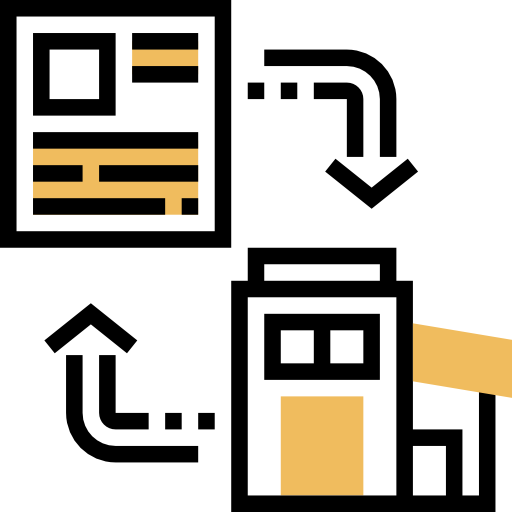
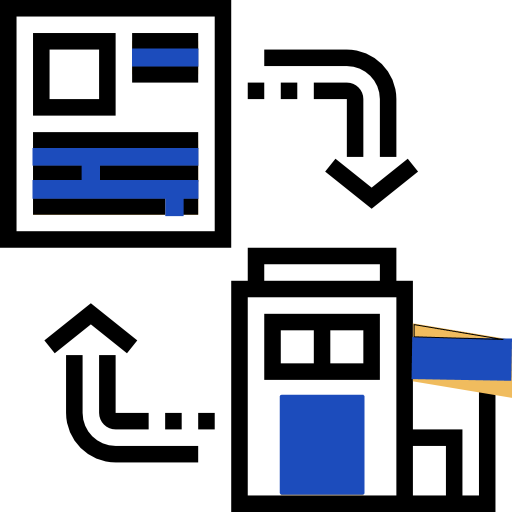
implemente la section methodologir

diff --git a/services.html b/services.html
@@ -203,32 +203,39 @@
     </section>
     <!-- presentation start -->
     <section class="presentation" id="">
-      <div class="card bg-light mb-3" >
-        
+      <div class="card bg-light mb-3">
         <div class="card-body">
           <i class="fa-icon fa-solid fa-handshake"></i>
           <h5 class="card-title text-center">Collaboration</h5>
-          <p class="card-text">Some quick example text to build on the card title and make up the bulk of the card's content.</p>
+          <p class="card-text">
+            Some quick example text to build on the card title and make up the
+            bulk of the card's content.
+          </p>
         </div>
       </div>
-      <div class="card bg-light mb-3" >
+      <div class="card bg-light mb-3">
         <div class="card-body card-box">
           <i class="fa-icon fa-solid fa-people-carry-box"></i>
           <h5 class="card-title text-center">Equipes</h5>
-          <p class="card-text">Some quick example text to build on the card title and make up the bulk of the card's content.</p>
+          <p class="card-text">
+            Some quick example text to build on the card title and make up the
+            bulk of the card's content.
+          </p>
         </div>
       </div>
-      <div class="card bg-light mb-3" >
-       
+      <div class="card bg-light mb-3">
         <div class="card-body">
           <i class="fa-icon fa-solid fa-radiation"></i>
           <h5 class="card-title text-center">Rapidité</h5>
-          <p class="card-text ">Some quick example text to build on the card title and make up the bulk of the card's content.</p>
+          <p class="card-text">
+            Some quick example text to build on the card title and make up the
+            bulk of the card's content.
+          </p>
         </div>
       </div>
     </section>
- <!-- presentation end -->
-    <!-- Présetztion services -->
+    <!-- presentation end -->
+    <!-- Présentation services -->
     <section class="services" id="services">
       <h1 class="heading">Nos services</h1>
 
@@ -323,7 +330,36 @@
       </div>
     </section>
     <!-- Fin présentation services -->
-
+    <section>
+      <div class="container-methode">
+        <div class="box-methode">
+          <h1>Méthodologie</h1>
+          <p>
+            Some quick example text to build on the card title and make up the
+            bulk of the card's content.
+          </p>
+          <p>
+            Some quick example text to build on the card title and make up the
+            bulk of the card's content.
+          </p>
+          <p>
+            Some quick example text to build on the card title and make up the
+            bulk of the card's content.lorem build on the card title and make up
+            the bulk of the card's content.lorem build on the card title and
+            make up the bulk of the card's content.lorem lorem ipsum dolor sit
+            amet lorem ipsum dolor sit amet lorem ipsum dolor sit amet
+          </p>
+        </div>
+        <div class="box-image">
+          <img
+            class="img-fluid"
+            src="./images/homme_adulte.jpg"
+            alt=""
+            srcset=""
+          />
+        </div>
+      </div>
+    </section>
     <!-- contact section starts  -->
     <section class="contact" id="contact">
       <h1 class="heading">Contactez-nous</h1>
@@ -367,7 +403,6 @@
           <h2>Contact</h2>
           <div class="mt-5">
             <p><a href="#" class="item"> +24389 654 05 39</a></p>
-         
           </div>
         </div>
         <div class="col-md-3 col-sm-12 footer-contact">

diff --git a/css/services.css b/css/services.css
@@ -1,68 +1,104 @@
-body{
-    width: 100%;
-    height: 100vh;
-}
-.services-hero{
-    height: 70vh;
-    width: 100%;
-    background-image: url(../images/hero_service_origin.png) ;
-    background-size: cover;
-    background-repeat: no-repeat;
-    background-position: 29% 20%    ;
+@import url("https://fonts.googleapis.com/css2?family=Poppins:wght@100;200;300;400;500;600&display=swap");
 
+:root {
+  --yellow: #f5bf23;
+  --bleu: #1c4cbc;
+  --black: #111;
+  --white: #fff;
+  --light-color: #666;
+  --light-bg: #eee;
+  --box-shadow: 0 0.5rem 1rem rgba(0, 0, 0, 0.1);
+  --border: 0.1rem solid rgba(0, 0, 0, 0.3);
 }
-.services-hero h1{
-    font-weight: bold;
+
+body {
+  width: 100%;
+  height: 100vh;
 }
-.content{
-    display: flex;
-    height: 100%;
-    justify-content: center;
-    flex-direction: column;
-    
+.services-hero {
+  height: 70vh;
+  width: 100%;
+  background-image: url(../images/hero_service_origin.png);
+  background-size: cover;
+  background-repeat: no-repeat;
+  background-position: 29% 20%;
 }
-.content-box *{
-    color: #fff;
+.services-hero h1 {
+  font-weight: bold;
 }
-.content-box h1{
-    font-size:9rem;
-    width: 70%;
-    font-weight: 900;
-   }
-.content-box p{
- font-size:13px;
- font-weight: normal;
+.content {
+  display: flex;
+  height: 100%;
+  justify-content: center;
+  flex-direction: column;
 }
-.card{
-    max-width: 24rem;
+.content-box * {
+  color: #fff;
+}
+.content-box h1 {
+  font-size: 9rem;
+  width: 70%;
+  font-weight: 900;
+}
+.content-box p {
+  font-size: 13px;
+  font-weight: normal;
+}
+.card {
+  max-width: 24rem;
 }
 /* Presentation */
-.presentation{
-    display: flex;
-    gap: 6rem;
-    margin-top:-12rem;
-    flex-wrap: wrap;
-    align-content: center;
-    justify-content: center;
+.presentation {
+  display: flex;
+  gap: 6rem;
+  margin-top: -12rem;
+  flex-wrap: wrap;
+  align-content: center;
+  justify-content: center;
 }
 .card-body {
-    display: flex;
-    flex-direction: column;
-    justify-content: center;
-    align-items: center;
+  display: flex;
+  flex-direction: column;
+  justify-content: center;
+  align-items: center;
 }
-i.fa-icon{
-    text-align: center;
-    color: #1c4cbc;
-    font-size:7rem;
+i.fa-icon {
+  text-align: center;
+  color: #1c4cbc;
+  font-size: 7rem;
 }
-.card-title{
-    padding: 1rem 0;
-    font-size: 1.5rem; 
-    font-weight:bold;
+.card-title {
+  padding: 1rem 0;
+  font-size: 1.5rem;
+  font-weight: bold;
 }
-.card-text{
-    font-size: 1.4rem;
-    font-weight:normal;
-
+.card-text {
+  font-size: 1.4rem;
+  font-weight: normal;
+}
+.container-methode {
+  display: flex;
+  flex-wrap: nowrap;
+  flex-direction: row;
+}
+.box-methode {
+  width: 70%;
+}
+.box-methode h1 {
+  margin-bottom: 3rem;
+  color: var(--black);
+  text-transform: capitalize;
+  font-size: 3rem;
+  padding-left: 1rem;
+  border-left: 1rem solid var(--bleu);
+}
+.box-methode p {
+  font-size: 1.7rem;
+  font-weight: normal;
+  margin-bottom: 1rem;
+  text-align: justify;
+  padding-right: 4rem;
+}
+.box-image {
+  width: 45vw;
 }
